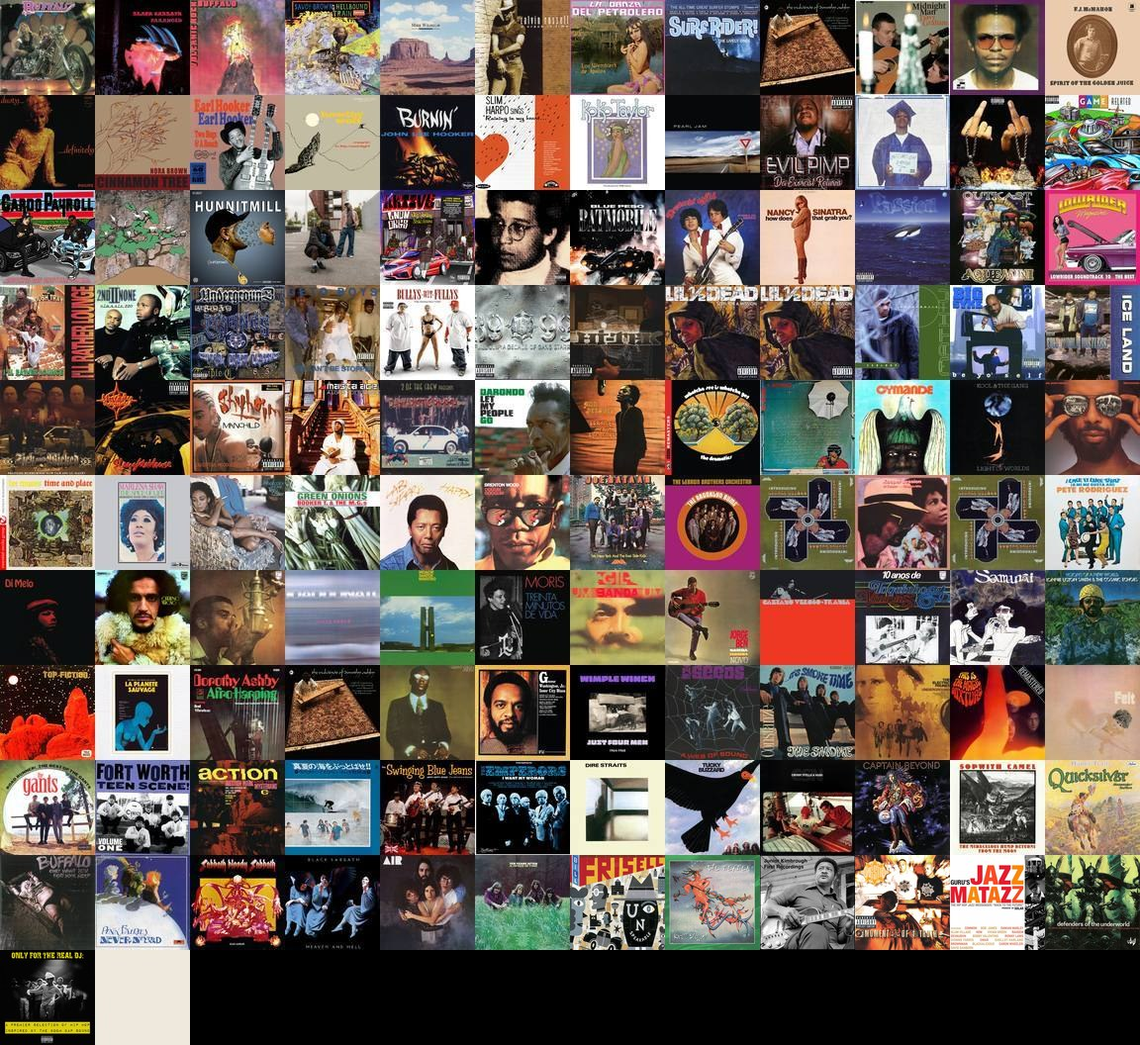
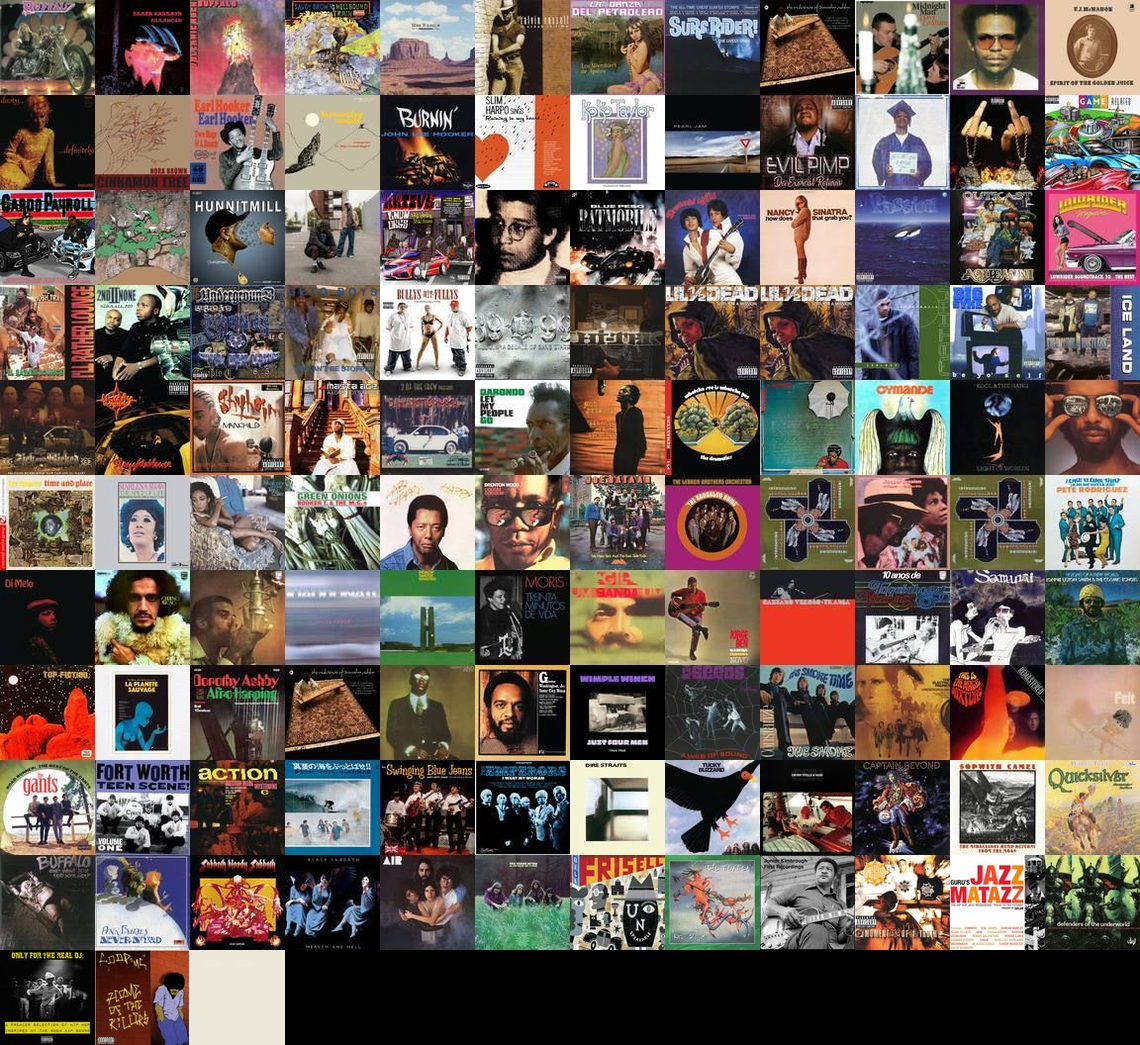
Hublot redessiné (cadres SVG), morceau Home of the Killers (Coop MC) ajouté aux vinyles

Changed region(s): [[0.0625, 0.9062, 0.25, 1.0]]

diff --git a/js/music.js b/js/music.js
@@ -1,3 +1,3 @@
 // Morceaux Spotify du vinyle (liste fournie par Mathieu). Pochettes : planche assets/music/pochettes.jpg, 12 colonnes de 96 px, dans l'ordre.
-export const TRACKS = [{"id":"5WbmkEj3lPvTI1f5CacBkM","t":"Hotel Ladies","a":"Buffalo"},{"id":"6TYQRlRci6AkVrN9a5C7ne","t":"War Pigs - 2009 Remaster","a":"Black Sabbath"},{"id":"5qYtLQTQPhZgWqvRUSsSM4","t":"Intro: Pound Of Flesh","a":"Buffalo"},{"id":"2uiGN4Jwvmw55fLJ93c4Nl","t":"Doin' Fine","a":"Andy Silvester, Kim Simmonds, Savoy Brown"},{"id":"2el9dKL3FVLtDCysHpxJkL","t":"Me and my uncle","a":"Mike Wilhelm"},{"id":"19Ji6Pdoms8fbiujzXoNML","t":"Big brother","a":"Calvin Russell"},{"id":"06mLrrjEz0SlqWrf2VP9rw","t":"Bola Bola En El Tres","a":"Los Wembler's de Iquitos"},{"id":"2ZzQyhYslMeChl0RJdmB80","t":"Caterpillar Crawl","a":"The Lively Ones"},{"id":"2CPFaD7XlLP1ahIhjrvR84","t":"The Moving Finger","a":"Dorothy Ashby"},{"id":"5Uy4hK8Bv1h3Q2OgE4D2xx","t":"No Preacher Blues","a":"Davy Graham"},{"id":"210LU4BbYVSBrjEroOUIsP","t":"Drowning In The Sea Of Love","a":"Ronnie Foster"},{"id":"6xvqkLXJrY9QdZAi1zOQzj","t":"The Road Back Home","a":"F. J. McMahon"},{"id":"3MtP9T0WF4xbIo8vqHYeXM","t":"Spooky","a":"Dusty Springfield"},{"id":"3ScRgckb3ugXlJcJQ9juZ3","t":"Shady Grove - Beautiful Doll","a":"Nora Brown"},{"id":"79lwbvYgFFw3eNbBx4bBRw","t":"Two Bugs and a Roach","a":"Earl Hooker"},{"id":"2HUZVffVPXvqnrml0gXggp","t":"Smokestack Lightnin'","a":"Howlin' Wolf"},{"id":"2Mr1bGI2E10K7Mt1UJZ6Mw","t":"Boom Boom","a":"John Lee Hooker"},{"id":"2DbjWyRtXmbOGyN1C1Kdbp","t":"I'm A King Bee","a":"Slim Harpo"},{"id":"1cXc92MX9kFjMrrDsvdf9w","t":"Wang Dang Doodle","a":"Koko Taylor"},{"id":"0dIipTYASaFwX1QxVrVFV7","t":"Do the Evolution","a":"Pearl Jam"},{"id":"4ePlCt1ufP7B4CAMAwv5Cl","t":"A Damaged Mind","a":"Evil Pimp"},{"id":"7J2j2dUHtV4WOLf8yCzFNX","t":"Nothin But Love","a":"G Perico"},{"id":"4jNOY3vSGI860jqvWOniOr","t":"Its a Blizzard","a":"OTM"},{"id":"1RNojPitlhU5xTQRVcfbvR","t":"Best Behavior","a":"Cardo Got Wings"},{"id":"1TKU1StPW5dPAkP5d5aX7n","t":"Eyez Closed","a":"Payroll Giovanni & Cardo"},{"id":"5BxxrBBszLOYfwcoGF9EFG","t":"Fidget (feat. Go Dreamer)","a":"Left Brain, Go Dreamer"},{"id":"3AjWqcJX4Fa0iGiH5u5ucB","t":"Hunnitmill","a":"Conradfrmdaaves"},{"id":"1zDEeXqtngXbwAVa9rm4Th","t":"Double Lap","a":"Nana, Buddy"},{"id":"6xYI2cuaAZXT6qUwLG5aDH","t":"La Quinta (feat. G Perico)","a":"LNDN DRGS, Jay Worthy, G Perico"},{"id":"1Iss2uVJkG5dgT3gIDvFv0","t":"Veneeda Carter","a":"Joey Fatts, Blxst"},{"id":"5DtsrFB9pkdcwMUMhg0jAJ","t":"Batmobile","a":"Blue Pesos"},{"id":"62wdQ5CInFr7cjISqrr46f","t":"Baby","a":"Donnie & Joe Emerson"},{"id":"4JLcAU2xY90qTkTSNM1lUa","t":"Bang Bang (My Baby Shot Me Down)","a":"Nancy Sinatra"},{"id":"1ZbvEfR0gXKeuDSEtwdrwH","t":"Fillmoe","a":"Andre Nickatina"},{"id":"4GdB5M7GbwLZLouktYocFC","t":"SpottieOttieDopaliscious","a":"Outkast"},{"id":"2ZuxPH17ax5lZ0ROFnrxkv","t":"My 64","a":"Deuce Mob"},{"id":"3TH4GmCJuxdKV9vVvMXlO0","t":"I'll Rather Lounge","a":"Dush Tray"},{"id":"3azIUUjxlMAxJVr9MVNFxb","t":"Pawdy (feat. Playa Hamm)","a":"2nd II None, Playa Hamm"},{"id":"2mKAPrXQ9PQtmw8N9SVTTt","t":"California Soldier","a":"Triple C, Central Coast Clique"},{"id":"4j3sD1EcYquM2ltqNH19ec","t":"Mind Playing Tricks on Me","a":"Geto Boys"},{"id":"0jwZpLiKzk689cJ7yyIoAe","t":"Orange Juice & A Blunt","a":"Bullys Wit Fullys: Guce & Messy Marv"},{"id":"30oTS7bm0aH3p7lqjEIu8q","t":"Full Clip","a":"Gang Starr"},{"id":"6hO3OQ7DDZtjYnVh4EaM3B","t":"The Sun God","a":"Hi-Tek"},{"id":"3HqeaAFjoyBQQ7MX0l8Ee5","t":"Gotta Git Cha","a":"Lil 1/2 Dead"},{"id":"0dG0fNkV86IkUyruf8HyOp","t":"Still Rollin'","a":"Lil 1/2 Dead"},{"id":"1DeT9bwgxISUvbjkmPZyv2","t":"Learn to Earn","a":"Mathematik"},{"id":"3FNGGD6oiTuoVToSx4pUqS","t":"Good Timez","a":"Big Syke"},{"id":"3wiI75YYjGyJlGATODN62Z","t":"Straight Doin' It","a":"Cold World Hustlers"},{"id":"1hp9Ykrw6cCkbL3T6Xlpnt","t":"Shady Lady - Feat. Chino Grande & Big Dave","a":"Sickworld Entertainment"},{"id":"4Jdk8i1Chv4AmwOAkhdXn9","t":"The Big East","a":"Masta Ace Incorporated"},{"id":"4GXV4ScLZ64QcAE03csXUF","t":"Manchild","a":"Tekitha, Shyheim"},{"id":"1sz7jKNRQQVwGp5xKxuixo","t":"Soda & Soap (Featuring Jean Grae)","a":"Masta Ace, Jean Grae"},{"id":"5coE05sP1xaadFJPtQ5zae","t":"Stank Tramps","a":"2 Of The Crew"},{"id":"0i1aUfVUCscAH6IdIa4kjn","t":"My Momma and My Poppa","a":"Darondo"},{"id":"1P1UUI1h9ztiVgDZq1aEtt","t":"99 Pounds","a":"Ann Peebles"},{"id":"70eine3FCFbBVmX3HZhto4","t":"Whatcha See Is Whatcha Get - Stax Remasters","a":"The Dramatics"},{"id":"0RTPZ8Yd44dsoR3uSkK9GT","t":"Ruby Lee","a":"Bill Withers"},{"id":"4TbIOAb7FfbhHi2glq0EwA","t":"Dove","a":"Cymande"},{"id":"2uMqG8w8oi09fB2YA2QLOm","t":"Summer Madness","a":"Kool & The Gang"},{"id":"0MCEM7WuIw4tS9ih4HGE1S","t":"Gun","a":"Gil Scott-Heron"},{"id":"6NrwaVjdLbYsU9Omdbzgtp","t":"Time and Place","a":"Lee Moses"},{"id":"4kfQerxbqsZgi4uWreRjZS","t":"Woman Of The Ghetto","a":"Marlena Shaw"},{"id":"3teQ8pkzhuw4JILPFUADIu","t":"You Goin' Miss Your Candyman","a":"Terry Callier"},{"id":"4fQMGlCawbTkH9yPPZ49kP","t":"Green Onions","a":"Booker T. & the M.G.'s"},{"id":"7rzCydzyXY6gtjFHVCy4SV","t":"Doctor Doctor","a":"Labi Siffre"},{"id":"4WiGGTl7Kt5vnjQHqwLJy1","t":"Oogum Boogum Song","a":"Brenton Wood"},{"id":"6nc5TOvx3UMN4FzA9GUefp","t":"Eres Tu Cosa","a":"Joe Bataan"},{"id":"0yfaraByNSy8oZZVw2gBMB","t":"The Village Chant","a":"The Lebron Brothers Orchestra"},{"id":"0fkWQUZ8Rhh99dNDAIT5Q1","t":"Marilu","a":"George Guzman"},{"id":"7lSYRZnM7fULyp1eNezYC8","t":"Bury My Body","a":"Al Kooper, Shuggie Otis"},{"id":"6oeePYqA5ZjAYi6NUwQpV6","t":"French Boogaloo","a":"George Guzman"},{"id":"6Wy3X4jSszfisnRscJCHdq","t":"I Like It Like That","a":"Pete Rodriguez"},{"id":"1FlKf8UuvOiquytGGwFcyG","t":"Conformopolis","a":"Di Melo"},{"id":"4sKmFSX4iFpvWHXMK1bWlh","t":"A Little More Blue","a":"Caetano Veloso"},{"id":"2OmW34Xkvsy1VCOZ4OZhKv","t":"O Telefone Tocou Novamente","a":"Jorge Ben Jor, Trio Mocoto"},{"id":"3h2uH2Cd2R3uvgXqA0xV9U","t":"Tudo Tem","a":"João Donato"},{"id":"5NCiqRmoHFNSTeEt1SIxKX","t":"April Child","a":"Moacir Santos"},{"id":"5zR2HBjuNk68vpMDUutZ7r","t":"De Nada Sirve","a":"Moris"},{"id":"4P4EomSWKSH1A4RhiSP1iZ","t":"Ê menina - Primeira versão","a":"Gilberto Gil"},{"id":"3RbaFpFrnhkZCIbqyPELna","t":"A Tamba","a":"Jorge Ben Jor"},{"id":"6QWeTNqA0V8ChgMWdbF2vl","t":"Neolithic Man","a":"Caetano Veloso"},{"id":"5BIsNWsHDfCeU8dYexiCsQ","t":"A Tonga Da Mironga Do Kabuletê","a":"Toquinho, Vinícius de Moraes"},{"id":"7gByrcDXxLNgNhISVoSDWc","t":"More Rain","a":"Samurai"},{"id":"7o5jLtd1oTSxtPPeRchT2j","t":"Summer Nights","a":"Lonnie Liston Smith, The Cosmic Echoes"},{"id":"5k5TLNwqEZo8ZberjWZ5TL","t":"Deer Forest","a":"Pierre Dutour"},{"id":"04uauFxLrz9VTsqQpsGKMa","t":"Le bracelet","a":"Alain Goraguer"},{"id":"5QduYE98H3GM1KWCVyxxqz","t":"Games","a":"Dorothy Ashby"},{"id":"7DhirV3YLZWSWyprVQBrfX","t":"Joyful Grass And Grape","a":"Dorothy Ashby"},{"id":"0EdYLCHThvtSmze7iEqlEN","t":"Maybe Tomorrow","a":"Grant Green"},{"id":"3EA7UCERsrayjxwOurZh0H","t":"Inner City Blues (Make Me Wanna Holler)","a":"Grover Washington, Jr."},{"id":"0QrIXAefrjaR1coIvv35y1","t":"Atmospheres - Radio Session 1967","a":"The Wimple Winch"},{"id":"4psIA82DXx6LIWGizkrTPm","t":"Up in Her Room - Stereo","a":"The Seeds"},{"id":"730nZg9zYfDzuqXkxR25NZ","t":"High In A Room","a":"The Smoke"},{"id":"5Em2AxqmENAdmvWlZMHdTp","t":"The Great Banana Hoax","a":"The Electric Prunes"},{"id":"6NShwMc7Jc1b5HIWa1YmpK","t":"Urge to Leave","a":"Magic Mixture"},{"id":"4hreuoKJi3sBdtQD3gfzh5","t":"Destination","a":"Felt, Myke Jackson"},{"id":"6O413yrTmViauDs1juWj8V","t":"(You Can't Blow) Smoke Rings","a":"The Gants"},{"id":"0rxaOwS1sZ4iM13u2Sax7C","t":"Night Of The Sadist","a":"Larry & The Blue Notes"},{"id":"5BExZ33DWn0PjWq5RYTupH","t":"Got To","a":"? & The Mysterians"},{"id":"5ROhWr0MawPKhwzhNcnm65","t":"青い渚をぶっとばせ","a":"Takeshi Terauchi, 寺内タケシ&ブルージーンズ"},{"id":"16gGppv6vLbITNx1Mi7dzd","t":"You're No Good","a":"The Swinging Blue Jeans"},{"id":"5sAtScOFqvZE9lgZCCnR3v","t":"I Want My Woman","a":"The Emperors"},{"id":"2miIOgni3EEut8pvYcxeYn","t":"Six Blade Knife","a":"Dire Straits"},{"id":"74uqYDRpvAjIWKqZWNIeDH","t":"Whisky Eyes","a":"Tucky Buzzard"},{"id":"5P6R9ZII7Q9Hi2PEXrErxe","t":"Run from Tears","a":"Crosby, Stills & Nash"},{"id":"1T6HvG1MGRlNKnV3g1iMEC","t":"Armworth","a":"Captain Beyond"},{"id":"0gbqyGMjt3DrZuiWLrvVaj","t":"Sneaky Smith","a":"Sopwith Camel"},{"id":"6nvqMow6jtm6nSlZw3kEQG","t":"Which Do You Love","a":"Quicksilver Messenger Service"},{"id":"2kEYmPUBUPvS6PvjFLItwR","t":"Kings Cross Ladies","a":"Buffalo"},{"id":"2W44h8OzlFXjpXUoLLyuyR","t":"Uncle Harry's Last Freak-Out","a":"The Pink Fairies"},{"id":"387JMg7bz2JPHhLqXC1RBy","t":"Killing Yourself to Live - 2013 Remaster","a":"Black Sabbath"},{"id":"5qxN63QA4Hk1zgdLCsZFE2","t":"Heaven and Hell","a":"Black Sabbath"},{"id":"357S3x6PWOPs7zeKX640MO","t":"Mr. Man","a":"Air"},{"id":"5buHTniXr2fPv9iDlBgnub","t":"I've Been There Too - 2004 Remaster","a":"Ten Years After"},{"id":"6RLIzLk4dl8uAYCjUZLlor","t":"1968","a":"Bill Frisell"},{"id":"54xXWo2WfWUZgLiZGOBeU3","t":"The Goodbye","a":"The Mermen"},{"id":"7HQhevzEGXpA3a7kV2o724","t":"Feels so Good #1","a":"Junior Kimbrough"},{"id":"0drHbXjNetXRrdcm81pxfw","t":"JFK 2 LAX","a":"Gang Starr"},{"id":"2zPLGStHETdkChk5UCvs7W","t":"State of Clarity","a":"Guru, Common, Bob James"},{"id":"0fZPrVMa6UJ785NKmu6gVm","t":"Pow Wow","a":"The Psycho Realm"},{"id":"4lD2Tahm75anCbAilasvhu","t":"Let It Fall","a":"Lin Que"}];
-export const COVER = { cols: 12, rows: 11, file: 'assets/music/pochettes.jpg?v=m121' };
+export const TRACKS = [{"id":"5WbmkEj3lPvTI1f5CacBkM","t":"Hotel Ladies","a":"Buffalo"},{"id":"6TYQRlRci6AkVrN9a5C7ne","t":"War Pigs - 2009 Remaster","a":"Black Sabbath"},{"id":"5qYtLQTQPhZgWqvRUSsSM4","t":"Intro: Pound Of Flesh","a":"Buffalo"},{"id":"2uiGN4Jwvmw55fLJ93c4Nl","t":"Doin' Fine","a":"Andy Silvester, Kim Simmonds, Savoy Brown"},{"id":"2el9dKL3FVLtDCysHpxJkL","t":"Me and my uncle","a":"Mike Wilhelm"},{"id":"19Ji6Pdoms8fbiujzXoNML","t":"Big brother","a":"Calvin Russell"},{"id":"06mLrrjEz0SlqWrf2VP9rw","t":"Bola Bola En El Tres","a":"Los Wembler's de Iquitos"},{"id":"2ZzQyhYslMeChl0RJdmB80","t":"Caterpillar Crawl","a":"The Lively Ones"},{"id":"2CPFaD7XlLP1ahIhjrvR84","t":"The Moving Finger","a":"Dorothy Ashby"},{"id":"5Uy4hK8Bv1h3Q2OgE4D2xx","t":"No Preacher Blues","a":"Davy Graham"},{"id":"210LU4BbYVSBrjEroOUIsP","t":"Drowning In The Sea Of Love","a":"Ronnie Foster"},{"id":"6xvqkLXJrY9QdZAi1zOQzj","t":"The Road Back Home","a":"F. J. McMahon"},{"id":"3MtP9T0WF4xbIo8vqHYeXM","t":"Spooky","a":"Dusty Springfield"},{"id":"3ScRgckb3ugXlJcJQ9juZ3","t":"Shady Grove - Beautiful Doll","a":"Nora Brown"},{"id":"79lwbvYgFFw3eNbBx4bBRw","t":"Two Bugs and a Roach","a":"Earl Hooker"},{"id":"2HUZVffVPXvqnrml0gXggp","t":"Smokestack Lightnin'","a":"Howlin' Wolf"},{"id":"2Mr1bGI2E10K7Mt1UJZ6Mw","t":"Boom Boom","a":"John Lee Hooker"},{"id":"2DbjWyRtXmbOGyN1C1Kdbp","t":"I'm A King Bee","a":"Slim Harpo"},{"id":"1cXc92MX9kFjMrrDsvdf9w","t":"Wang Dang Doodle","a":"Koko Taylor"},{"id":"0dIipTYASaFwX1QxVrVFV7","t":"Do the Evolution","a":"Pearl Jam"},{"id":"4ePlCt1ufP7B4CAMAwv5Cl","t":"A Damaged Mind","a":"Evil Pimp"},{"id":"7J2j2dUHtV4WOLf8yCzFNX","t":"Nothin But Love","a":"G Perico"},{"id":"4jNOY3vSGI860jqvWOniOr","t":"Its a Blizzard","a":"OTM"},{"id":"1RNojPitlhU5xTQRVcfbvR","t":"Best Behavior","a":"Cardo Got Wings"},{"id":"1TKU1StPW5dPAkP5d5aX7n","t":"Eyez Closed","a":"Payroll Giovanni & Cardo"},{"id":"5BxxrBBszLOYfwcoGF9EFG","t":"Fidget (feat. Go Dreamer)","a":"Left Brain, Go Dreamer"},{"id":"3AjWqcJX4Fa0iGiH5u5ucB","t":"Hunnitmill","a":"Conradfrmdaaves"},{"id":"1zDEeXqtngXbwAVa9rm4Th","t":"Double Lap","a":"Nana, Buddy"},{"id":"6xYI2cuaAZXT6qUwLG5aDH","t":"La Quinta (feat. G Perico)","a":"LNDN DRGS, Jay Worthy, G Perico"},{"id":"1Iss2uVJkG5dgT3gIDvFv0","t":"Veneeda Carter","a":"Joey Fatts, Blxst"},{"id":"5DtsrFB9pkdcwMUMhg0jAJ","t":"Batmobile","a":"Blue Pesos"},{"id":"62wdQ5CInFr7cjISqrr46f","t":"Baby","a":"Donnie & Joe Emerson"},{"id":"4JLcAU2xY90qTkTSNM1lUa","t":"Bang Bang (My Baby Shot Me Down)","a":"Nancy Sinatra"},{"id":"1ZbvEfR0gXKeuDSEtwdrwH","t":"Fillmoe","a":"Andre Nickatina"},{"id":"4GdB5M7GbwLZLouktYocFC","t":"SpottieOttieDopaliscious","a":"Outkast"},{"id":"2ZuxPH17ax5lZ0ROFnrxkv","t":"My 64","a":"Deuce Mob"},{"id":"3TH4GmCJuxdKV9vVvMXlO0","t":"I'll Rather Lounge","a":"Dush Tray"},{"id":"3azIUUjxlMAxJVr9MVNFxb","t":"Pawdy (feat. Playa Hamm)","a":"2nd II None, Playa Hamm"},{"id":"2mKAPrXQ9PQtmw8N9SVTTt","t":"California Soldier","a":"Triple C, Central Coast Clique"},{"id":"4j3sD1EcYquM2ltqNH19ec","t":"Mind Playing Tricks on Me","a":"Geto Boys"},{"id":"0jwZpLiKzk689cJ7yyIoAe","t":"Orange Juice & A Blunt","a":"Bullys Wit Fullys: Guce & Messy Marv"},{"id":"30oTS7bm0aH3p7lqjEIu8q","t":"Full Clip","a":"Gang Starr"},{"id":"6hO3OQ7DDZtjYnVh4EaM3B","t":"The Sun God","a":"Hi-Tek"},{"id":"3HqeaAFjoyBQQ7MX0l8Ee5","t":"Gotta Git Cha","a":"Lil 1/2 Dead"},{"id":"0dG0fNkV86IkUyruf8HyOp","t":"Still Rollin'","a":"Lil 1/2 Dead"},{"id":"1DeT9bwgxISUvbjkmPZyv2","t":"Learn to Earn","a":"Mathematik"},{"id":"3FNGGD6oiTuoVToSx4pUqS","t":"Good Timez","a":"Big Syke"},{"id":"3wiI75YYjGyJlGATODN62Z","t":"Straight Doin' It","a":"Cold World Hustlers"},{"id":"1hp9Ykrw6cCkbL3T6Xlpnt","t":"Shady Lady - Feat. Chino Grande & Big Dave","a":"Sickworld Entertainment"},{"id":"4Jdk8i1Chv4AmwOAkhdXn9","t":"The Big East","a":"Masta Ace Incorporated"},{"id":"4GXV4ScLZ64QcAE03csXUF","t":"Manchild","a":"Tekitha, Shyheim"},{"id":"1sz7jKNRQQVwGp5xKxuixo","t":"Soda & Soap (Featuring Jean Grae)","a":"Masta Ace, Jean Grae"},{"id":"5coE05sP1xaadFJPtQ5zae","t":"Stank Tramps","a":"2 Of The Crew"},{"id":"0i1aUfVUCscAH6IdIa4kjn","t":"My Momma and My Poppa","a":"Darondo"},{"id":"1P1UUI1h9ztiVgDZq1aEtt","t":"99 Pounds","a":"Ann Peebles"},{"id":"70eine3FCFbBVmX3HZhto4","t":"Whatcha See Is Whatcha Get - Stax Remasters","a":"The Dramatics"},{"id":"0RTPZ8Yd44dsoR3uSkK9GT","t":"Ruby Lee","a":"Bill Withers"},{"id":"4TbIOAb7FfbhHi2glq0EwA","t":"Dove","a":"Cymande"},{"id":"2uMqG8w8oi09fB2YA2QLOm","t":"Summer Madness","a":"Kool & The Gang"},{"id":"0MCEM7WuIw4tS9ih4HGE1S","t":"Gun","a":"Gil Scott-Heron"},{"id":"6NrwaVjdLbYsU9Omdbzgtp","t":"Time and Place","a":"Lee Moses"},{"id":"4kfQerxbqsZgi4uWreRjZS","t":"Woman Of The Ghetto","a":"Marlena Shaw"},{"id":"3teQ8pkzhuw4JILPFUADIu","t":"You Goin' Miss Your Candyman","a":"Terry Callier"},{"id":"4fQMGlCawbTkH9yPPZ49kP","t":"Green Onions","a":"Booker T. & the M.G.'s"},{"id":"7rzCydzyXY6gtjFHVCy4SV","t":"Doctor Doctor","a":"Labi Siffre"},{"id":"4WiGGTl7Kt5vnjQHqwLJy1","t":"Oogum Boogum Song","a":"Brenton Wood"},{"id":"6nc5TOvx3UMN4FzA9GUefp","t":"Eres Tu Cosa","a":"Joe Bataan"},{"id":"0yfaraByNSy8oZZVw2gBMB","t":"The Village Chant","a":"The Lebron Brothers Orchestra"},{"id":"0fkWQUZ8Rhh99dNDAIT5Q1","t":"Marilu","a":"George Guzman"},{"id":"7lSYRZnM7fULyp1eNezYC8","t":"Bury My Body","a":"Al Kooper, Shuggie Otis"},{"id":"6oeePYqA5ZjAYi6NUwQpV6","t":"French Boogaloo","a":"George Guzman"},{"id":"6Wy3X4jSszfisnRscJCHdq","t":"I Like It Like That","a":"Pete Rodriguez"},{"id":"1FlKf8UuvOiquytGGwFcyG","t":"Conformopolis","a":"Di Melo"},{"id":"4sKmFSX4iFpvWHXMK1bWlh","t":"A Little More Blue","a":"Caetano Veloso"},{"id":"2OmW34Xkvsy1VCOZ4OZhKv","t":"O Telefone Tocou Novamente","a":"Jorge Ben Jor, Trio Mocoto"},{"id":"3h2uH2Cd2R3uvgXqA0xV9U","t":"Tudo Tem","a":"João Donato"},{"id":"5NCiqRmoHFNSTeEt1SIxKX","t":"April Child","a":"Moacir Santos"},{"id":"5zR2HBjuNk68vpMDUutZ7r","t":"De Nada Sirve","a":"Moris"},{"id":"4P4EomSWKSH1A4RhiSP1iZ","t":"Ê menina - Primeira versão","a":"Gilberto Gil"},{"id":"3RbaFpFrnhkZCIbqyPELna","t":"A Tamba","a":"Jorge Ben Jor"},{"id":"6QWeTNqA0V8ChgMWdbF2vl","t":"Neolithic Man","a":"Caetano Veloso"},{"id":"5BIsNWsHDfCeU8dYexiCsQ","t":"A Tonga Da Mironga Do Kabuletê","a":"Toquinho, Vinícius de Moraes"},{"id":"7gByrcDXxLNgNhISVoSDWc","t":"More Rain","a":"Samurai"},{"id":"7o5jLtd1oTSxtPPeRchT2j","t":"Summer Nights","a":"Lonnie Liston Smith, The Cosmic Echoes"},{"id":"5k5TLNwqEZo8ZberjWZ5TL","t":"Deer Forest","a":"Pierre Dutour"},{"id":"04uauFxLrz9VTsqQpsGKMa","t":"Le bracelet","a":"Alain Goraguer"},{"id":"5QduYE98H3GM1KWCVyxxqz","t":"Games","a":"Dorothy Ashby"},{"id":"7DhirV3YLZWSWyprVQBrfX","t":"Joyful Grass And Grape","a":"Dorothy Ashby"},{"id":"0EdYLCHThvtSmze7iEqlEN","t":"Maybe Tomorrow","a":"Grant Green"},{"id":"3EA7UCERsrayjxwOurZh0H","t":"Inner City Blues (Make Me Wanna Holler)","a":"Grover Washington, Jr."},{"id":"0QrIXAefrjaR1coIvv35y1","t":"Atmospheres - Radio Session 1967","a":"The Wimple Winch"},{"id":"4psIA82DXx6LIWGizkrTPm","t":"Up in Her Room - Stereo","a":"The Seeds"},{"id":"730nZg9zYfDzuqXkxR25NZ","t":"High In A Room","a":"The Smoke"},{"id":"5Em2AxqmENAdmvWlZMHdTp","t":"The Great Banana Hoax","a":"The Electric Prunes"},{"id":"6NShwMc7Jc1b5HIWa1YmpK","t":"Urge to Leave","a":"Magic Mixture"},{"id":"4hreuoKJi3sBdtQD3gfzh5","t":"Destination","a":"Felt, Myke Jackson"},{"id":"6O413yrTmViauDs1juWj8V","t":"(You Can't Blow) Smoke Rings","a":"The Gants"},{"id":"0rxaOwS1sZ4iM13u2Sax7C","t":"Night Of The Sadist","a":"Larry & The Blue Notes"},{"id":"5BExZ33DWn0PjWq5RYTupH","t":"Got To","a":"? & The Mysterians"},{"id":"5ROhWr0MawPKhwzhNcnm65","t":"青い渚をぶっとばせ","a":"Takeshi Terauchi, 寺内タケシ&ブルージーンズ"},{"id":"16gGppv6vLbITNx1Mi7dzd","t":"You're No Good","a":"The Swinging Blue Jeans"},{"id":"5sAtScOFqvZE9lgZCCnR3v","t":"I Want My Woman","a":"The Emperors"},{"id":"2miIOgni3EEut8pvYcxeYn","t":"Six Blade Knife","a":"Dire Straits"},{"id":"74uqYDRpvAjIWKqZWNIeDH","t":"Whisky Eyes","a":"Tucky Buzzard"},{"id":"5P6R9ZII7Q9Hi2PEXrErxe","t":"Run from Tears","a":"Crosby, Stills & Nash"},{"id":"1T6HvG1MGRlNKnV3g1iMEC","t":"Armworth","a":"Captain Beyond"},{"id":"0gbqyGMjt3DrZuiWLrvVaj","t":"Sneaky Smith","a":"Sopwith Camel"},{"id":"6nvqMow6jtm6nSlZw3kEQG","t":"Which Do You Love","a":"Quicksilver Messenger Service"},{"id":"2kEYmPUBUPvS6PvjFLItwR","t":"Kings Cross Ladies","a":"Buffalo"},{"id":"2W44h8OzlFXjpXUoLLyuyR","t":"Uncle Harry's Last Freak-Out","a":"The Pink Fairies"},{"id":"387JMg7bz2JPHhLqXC1RBy","t":"Killing Yourself to Live - 2013 Remaster","a":"Black Sabbath"},{"id":"5qxN63QA4Hk1zgdLCsZFE2","t":"Heaven and Hell","a":"Black Sabbath"},{"id":"357S3x6PWOPs7zeKX640MO","t":"Mr. Man","a":"Air"},{"id":"5buHTniXr2fPv9iDlBgnub","t":"I've Been There Too - 2004 Remaster","a":"Ten Years After"},{"id":"6RLIzLk4dl8uAYCjUZLlor","t":"1968","a":"Bill Frisell"},{"id":"54xXWo2WfWUZgLiZGOBeU3","t":"The Goodbye","a":"The Mermen"},{"id":"7HQhevzEGXpA3a7kV2o724","t":"Feels so Good #1","a":"Junior Kimbrough"},{"id":"0drHbXjNetXRrdcm81pxfw","t":"JFK 2 LAX","a":"Gang Starr"},{"id":"2zPLGStHETdkChk5UCvs7W","t":"State of Clarity","a":"Guru, Common, Bob James"},{"id":"0fZPrVMa6UJ785NKmu6gVm","t":"Pow Wow","a":"The Psycho Realm"},{"id":"4lD2Tahm75anCbAilasvhu","t":"Let It Fall","a":"Lin Que"},{"id":"6ZzgDrIUVSMpsTVWRqtrBX","t":"Home of the Killers","a":"Coop MC"}];
+export const COVER = { cols: 12, rows: 11, file: 'assets/music/pochettes.jpg?v=m122' };

diff --git a/experiences.html b/experiences.html
@@ -8,8 +8,8 @@
 <meta name="theme-color" content="#05080d">
 <link rel="icon" href="favicon.svg" type="image/svg+xml">
 <link rel="stylesheet" href="cursor.css?v=5">
-<link rel="stylesheet" href="refonte/rf.css?v=mvh3c3rb">
-<script type="module" src="refonte/experiences.js?v=mvh3c3rb"></script>
+<link rel="stylesheet" href="refonte/rf.css?v=mvh3ib1x">
+<script type="module" src="refonte/experiences.js?v=mvh3ib1x"></script>
 </head>
 <body class="rf-exp-page">
 <nav class="rf-bnav" aria-label="Navigation">
@@ -51,9 +51,9 @@
         <svg class="rf-win-layer rf-win-trees" viewBox="0 0 1200 240" preserveAspectRatio="none"><defs><g id="rfw-t"><g filter="url(#rfw-blur)" fill="#f0b9cc" opacity=".92"><ellipse cx="90" cy="150" rx="70" ry="44"/><ellipse cx="40" cy="176" rx="44" ry="32"/><ellipse cx="140" cy="172" rx="52" ry="30"/></g><g filter="url(#rfw-blur)" fill="#f7d8e2" opacity=".95"><ellipse cx="410" cy="120" rx="80" ry="40"/><ellipse cx="450" cy="150" rx="54" ry="30"/></g><g filter="url(#rfw-blur)" fill="#e79dba" opacity=".9"><ellipse cx="820" cy="170" rx="90" ry="46"/><ellipse cx="760" cy="196" rx="46" ry="26"/></g></g></defs><use href="#rfw-t"/><use href="#rfw-t" x="600"/></svg>
         <svg class="rf-win-layer rf-win-grass" viewBox="0 0 1200 240" preserveAspectRatio="none"><defs><path id="rfw-g" fill="#3e7a2c" d="M0 232 Q60 222 130 231 T260 228 T400 233 T600 229 V240 H0Z"/></defs><use href="#rfw-g"/><use href="#rfw-g" x="600"/></svg>
       </div>
-      <div class="rf-win-inner" aria-hidden="true"></div>
+      <div class="rf-win-inner" aria-hidden="true"><svg viewBox="0 0 300 240" preserveAspectRatio="none"><defs><linearGradient id="rfw-ring" x1="0" y1="0" x2="0" y2="1"><stop offset="0" stop-color="#e4e6ea"/><stop offset=".5" stop-color="#a3a8b1"/><stop offset="1" stop-color="#d3d6db"/></linearGradient></defs><rect x="22" y="22" width="256" height="188" rx="34" fill="none" stroke="url(#rfw-ring)" stroke-width="7"/><rect x="25.500" y="25.500" width="249" height="181" rx="31" fill="none" stroke="#6f747e" stroke-width="1" opacity=".55"/></svg></div>
       <div class="rf-win-glass"><div class="rf-win-shutter" id="rf-shutter"><div class="rf-win-slats"></div><div class="rf-win-recess"></div><div class="rf-win-grip" id="rf-grip" role="slider" tabindex="0" aria-label="Poignée du store" aria-orientation="vertical" aria-valuemin="0" aria-valuemax="100" aria-valuenow="0"></div></div></div>
-      <div class="rf-win-outer" aria-hidden="true"></div>
+      <div class="rf-win-outer" aria-hidden="true"><svg viewBox="0 0 300 240" preserveAspectRatio="none"><defs><linearGradient id="rfw-fr" x1="0" y1="0" x2="0" y2="1"><stop offset="0" stop-color="#f3f4f6"/><stop offset=".55" stop-color="#dcdee3"/><stop offset="1" stop-color="#c4c7ce"/></linearGradient></defs><path fill-rule="evenodd" fill="url(#rfw-fr)" d="M46 0H254a46 46 0 0 1 46 46V194a46 46 0 0 1-46 46H46A46 46 0 0 1 0 194V46A46 46 0 0 1 46 0ZM54 15H246a38 38 0 0 1 38 38V177a38 38 0 0 1-38 38H54a38 38 0 0 1-38-38V53A38 38 0 0 1 54 15Z"/><rect x="2" y="2" width="296" height="236" rx="44" fill="none" stroke="#fff" stroke-width="2" opacity=".85"/><rect x="16" y="15" width="268" height="200" rx="38" fill="none" stroke="#a9adb6" stroke-width="2"/><path d="M84 219Q150 231 216 219L208 214H92Z" fill="#c3c6cd" stroke="#a1a5ae" stroke-width="1"/></svg></div>
     </div>
     <div class="rf-exp-title">
       <h1>Mon parcours jusqu’à présent</h1>
@@ -87,7 +87,7 @@
     <div class="rf-foot-card">
       <p class="rf-fh">Métadonnées</p>
       <dl class="rf-fgrid">
-        <div><dt>Version</dt><dd data-t="mvh3c3r">mvh3c3r</dd></div>
+        <div><dt>Version</dt><dd data-t="mvh3ib1">mvh3ib1</dd></div>
         <div><dt>Navigateur</dt><dd id="rf-f-browser">…</dd></div>
         <div><dt>Heure actuelle</dt><dd id="rf-f-time">…</dd></div>
         <div><dt>Dimensions</dt><dd id="rf-f-dim">…</dd></div>

diff --git a/refonte/rf.css b/refonte/rf.css
@@ -611,3 +611,14 @@ html body.rf-exp-page{background:#05080d;color:#e0ebfd;font-family:var(--rf-sans
 .rf-pn-prev:hover .rf-pn-arr{transform:translateX(-5px);opacity:1;color:#e0ebfd}.rf-pn-next:hover .rf-pn-arr{transform:translateX(5px);opacity:1;color:#e0ebfd}
 @media (max-width:620px){.rf-post-pn a.rf-pn-next{flex-direction:row;text-align:left;padding:12px 16px 12px 12px}.rf-pn-next .rf-pn-arr{order:3}}
 @media (prefers-reduced-motion:reduce){.rf-post-pn a,.rf-pn-vis,.rf-pn-vis img,.rf-pn-arr,.rf-post-pn a::after{transition:none}}
+/* hublot : cadres dessinés en SVG (mêmes proportions que l'original), ouverture et volet arrondis comme lui */
+.rf-win-inner,.rf-win-outer{border:0;box-shadow:none;background:none;filter:none;border-radius:0}
+.rf-win-outer{filter:drop-shadow(0 18px 24px rgb(0 8 60 / .45))}
+.rf-win-inner svg,.rf-win-outer svg{display:block;width:100%;height:100%}
+.rf-win-inner{inset:0}
+.rf-win-view{inset:5%;border-radius:13%/16%}
+.rf-win-glass{inset:6.4% 5.3%;border-radius:12%/15%}
+.rf-win-slats{border-radius:12%/15%;background:linear-gradient(180deg,#dcdee2 0,#cdd0d5 50%,#bcbfc6 100%);box-shadow:inset 0 0 0 2px rgb(255 255 255 / .7),inset 0 0 0 3px rgb(150 154 162 / .35),inset 0 -14px 22px rgb(0 0 0 / .07)}
+.rf-win-recess{left:21%;width:58%;bottom:3.6%;height:13%;border-radius:999px;background:linear-gradient(#aeb2ba,#d3d6db);box-shadow:inset 0 3px 6px rgb(0 0 0 / .28),0 1px 0 rgb(255 255 255 / .7)}
+.rf-win-grip{left:31%;width:38%;bottom:6.2%;height:6.4%;border-radius:999px;background:linear-gradient(180deg,#f2f3f6 0,#b3b7bf 45%,#7e838d 100%);box-shadow:0 2px 3px rgb(0 0 0 / .3),inset 0 1px 0 #fff}
+.rf-win-outer::after{display:none}

diff --git a/index.html b/index.html
@@ -13,9 +13,9 @@
 <link rel="preconnect" href="https://fonts.googleapis.com"><link rel="preconnect" href="https://fonts.gstatic.com" crossorigin>
 <link href="https://fonts.googleapis.com/css2?family=Instrument+Serif:ital@0;1&display=swap" rel="stylesheet">
 <link rel="stylesheet" href="project-dioramas.css?v=cv-light-v6">
-<link rel="stylesheet" href="refonte/rf.css?v=mvh3c3rb">
+<link rel="stylesheet" href="refonte/rf.css?v=mvh3ib1x">
 <script type="importmap">{"imports":{"three":"./vendor/three.module.min.js","three/addons/":"./vendor/"}}</script>
-<script type="module" src="refonte/main.js?v=mvh3c3rb"></script>
+<script type="module" src="refonte/main.js?v=mvh3ib1x"></script>
 </head>
 <body class="page-home rf">
 <nav class="nav" aria-label="Navigation">
@@ -142,7 +142,7 @@
     <div class="rf-foot-card">
       <p class="rf-fh">Métadonnées</p>
       <dl class="rf-fgrid">
-        <div><dt>Version</dt><dd data-t="mvh3c3r">mvh3c3r</dd></div>
+        <div><dt>Version</dt><dd data-t="mvh3ib1">mvh3ib1</dd></div>
         <div><dt>Navigateur</dt><dd id="rf-f-browser">…</dd></div>
         <div><dt>Heure actuelle</dt><dd id="rf-f-time">…</dd></div>
         <div><dt>Dimensions</dt><dd id="rf-f-dim">…</dd></div>

diff --git a/projet-cerfa.html b/projet-cerfa.html
@@ -8,9 +8,9 @@
 <meta name="theme-color" content="#05080d">
 <link rel="icon" href="favicon.svg" type="image/svg+xml">
 <link rel="stylesheet" href="cursor.css?v=5">
-<link rel="stylesheet" href="refonte/rf.css?v=mvh3c3rb">
+<link rel="stylesheet" href="refonte/rf.css?v=mvh3ib1x">
 <script type="importmap">{"imports":{"three":"./vendor/three.module.min.js"}}</script>
-<script type="module" src="refonte/post.js?v=mvh3c3rb"></script>
+<script type="module" src="refonte/post.js?v=mvh3ib1x"></script>
 </head>
 <body class="rf-post-page rf-post--bp">
 <nav class="rf-bnav" aria-label="Navigation">
@@ -46,7 +46,7 @@
     <div class="rf-foot-card">
       <p class="rf-fh">Métadonnées</p>
       <dl class="rf-fgrid">
-        <div><dt>Version</dt><dd data-t="mvh3c3r">mvh3c3r</dd></div>
+        <div><dt>Version</dt><dd data-t="mvh3ib1">mvh3ib1</dd></div>
         <div><dt>Navigateur</dt><dd id="rf-f-browser">…</dd></div>
         <div><dt>Heure actuelle</dt><dd id="rf-f-time">…</dd></div>
         <div><dt>Dimensions</dt><dd id="rf-f-dim">…</dd></div>

diff --git a/projet-finance.html b/projet-finance.html
@@ -8,9 +8,9 @@
 <meta name="theme-color" content="#05080d">
 <link rel="icon" href="favicon.svg" type="image/svg+xml">
 <link rel="stylesheet" href="cursor.css?v=5">
-<link rel="stylesheet" href="refonte/rf.css?v=mvh3c3rb">
+<link rel="stylesheet" href="refonte/rf.css?v=mvh3ib1x">
 <script type="importmap">{"imports":{"three":"./vendor/three.module.min.js"}}</script>
-<script type="module" src="refonte/post.js?v=mvh3c3rb"></script>
+<script type="module" src="refonte/post.js?v=mvh3ib1x"></script>
 </head>
 <body class="rf-post-page rf-post--bp">
 <nav class="rf-bnav" aria-label="Navigation">
@@ -46,7 +46,7 @@
     <div class="rf-foot-card">
       <p class="rf-fh">Métadonnées</p>
       <dl class="rf-fgrid">
-        <div><dt>Version</dt><dd data-t="mvh3c3r">mvh3c3r</dd></div>
+        <div><dt>Version</dt><dd data-t="mvh3ib1">mvh3ib1</dd></div>
         <div><dt>Navigateur</dt><dd id="rf-f-browser">…</dd></div>
         <div><dt>Heure actuelle</dt><dd id="rf-f-time">…</dd></div>
         <div><dt>Dimensions</dt><dd id="rf-f-dim">…</dd></div>

diff --git a/projet-gares.html b/projet-gares.html
@@ -8,9 +8,9 @@
 <meta name="theme-color" content="#05080d">
 <link rel="icon" href="favicon.svg" type="image/svg+xml">
 <link rel="stylesheet" href="cursor.css?v=5">
-<link rel="stylesheet" href="refonte/rf.css?v=mvh3c3rb">
+<link rel="stylesheet" href="refonte/rf.css?v=mvh3ib1x">
 <script type="importmap">{"imports":{"three":"./vendor/three.module.min.js"}}</script>
-<script type="module" src="refonte/post.js?v=mvh3c3rb"></script>
+<script type="module" src="refonte/post.js?v=mvh3ib1x"></script>
 </head>
 <body class="rf-post-page rf-post--bp">
 <nav class="rf-bnav" aria-label="Navigation">
@@ -46,7 +46,7 @@
     <div class="rf-foot-card">
       <p class="rf-fh">Métadonnées</p>
       <dl class="rf-fgrid">
-        <div><dt>Version</dt><dd data-t="mvh3c3r">mvh3c3r</dd></div>
+        <div><dt>Version</dt><dd data-t="mvh3ib1">mvh3ib1</dd></div>
         <div><dt>Navigateur</dt><dd id="rf-f-browser">…</dd></div>
         <div><dt>Heure actuelle</dt><dd id="rf-f-time">…</dd></div>
         <div><dt>Dimensions</dt><dd id="rf-f-dim">…</dd></div>

diff --git a/projet-moteur44.html b/projet-moteur44.html
@@ -8,9 +8,9 @@
 <meta name="theme-color" content="#05080d">
 <link rel="icon" href="favicon.svg" type="image/svg+xml">
 <link rel="stylesheet" href="cursor.css?v=5">
-<link rel="stylesheet" href="refonte/rf.css?v=mvh3c3rb">
+<link rel="stylesheet" href="refonte/rf.css?v=mvh3ib1x">
 <script type="importmap">{"imports":{"three":"./vendor/three.module.min.js"}}</script>
-<script type="module" src="refonte/post.js?v=mvh3c3rb"></script>
+<script type="module" src="refonte/post.js?v=mvh3ib1x"></script>
 </head>
 <body class="rf-post-page rf-post--bp">
 <nav class="rf-bnav" aria-label="Navigation">
@@ -46,7 +46,7 @@
     <div class="rf-foot-card">
       <p class="rf-fh">Métadonnées</p>
       <dl class="rf-fgrid">
-        <div><dt>Version</dt><dd data-t="mvh3c3r">mvh3c3r</dd></div>
+        <div><dt>Version</dt><dd data-t="mvh3ib1">mvh3ib1</dd></div>
         <div><dt>Navigateur</dt><dd id="rf-f-browser">…</dd></div>
         <div><dt>Heure actuelle</dt><dd id="rf-f-time">…</dd></div>
         <div><dt>Dimensions</dt><dd id="rf-f-dim">…</dd></div>

diff --git a/projet-pa.html b/projet-pa.html
@@ -8,9 +8,9 @@
 <meta name="theme-color" content="#05080d">
 <link rel="icon" href="favicon.svg" type="image/svg+xml">
 <link rel="stylesheet" href="cursor.css?v=5">
-<link rel="stylesheet" href="refonte/rf.css?v=mvh3c3rb">
+<link rel="stylesheet" href="refonte/rf.css?v=mvh3ib1x">
 <script type="importmap">{"imports":{"three":"./vendor/three.module.min.js"}}</script>
-<script type="module" src="refonte/post.js?v=mvh3c3rb"></script>
+<script type="module" src="refonte/post.js?v=mvh3ib1x"></script>
 </head>
 <body class="rf-post-page rf-post--bp">
 <nav class="rf-bnav" aria-label="Navigation">
@@ -46,7 +46,7 @@
     <div class="rf-foot-card">
       <p class="rf-fh">Métadonnées</p>
       <dl class="rf-fgrid">
-        <div><dt>Version</dt><dd data-t="mvh3c3r">mvh3c3r</dd></div>
+        <div><dt>Version</dt><dd data-t="mvh3ib1">mvh3ib1</dd></div>
         <div><dt>Navigateur</dt><dd id="rf-f-browser">…</dd></div>
         <div><dt>Heure actuelle</dt><dd id="rf-f-time">…</dd></div>
         <div><dt>Dimensions</dt><dd id="rf-f-dim">…</dd></div>

diff --git a/projet-powerbi.html b/projet-powerbi.html
@@ -8,9 +8,9 @@
 <meta name="theme-color" content="#05080d">
 <link rel="icon" href="favicon.svg" type="image/svg+xml">
 <link rel="stylesheet" href="cursor.css?v=5">
-<link rel="stylesheet" href="refonte/rf.css?v=mvh3c3rb">
+<link rel="stylesheet" href="refonte/rf.css?v=mvh3ib1x">
 <script type="importmap">{"imports":{"three":"./vendor/three.module.min.js"}}</script>
-<script type="module" src="refonte/post.js?v=mvh3c3rb"></script>
+<script type="module" src="refonte/post.js?v=mvh3ib1x"></script>
 </head>
 <body class="rf-post-page rf-post--bp">
 <nav class="rf-bnav" aria-label="Navigation">
@@ -46,7 +46,7 @@
     <div class="rf-foot-card">
       <p class="rf-fh">Métadonnées</p>
       <dl class="rf-fgrid">
-        <div><dt>Version</dt><dd data-t="mvh3c3r">mvh3c3r</dd></div>
+        <div><dt>Version</dt><dd data-t="mvh3ib1">mvh3ib1</dd></div>
         <div><dt>Navigateur</dt><dd id="rf-f-browser">…</dd></div>
         <div><dt>Heure actuelle</dt><dd id="rf-f-time">…</dd></div>
         <div><dt>Dimensions</dt><dd id="rf-f-dim">…</dd></div>

diff --git a/projet-studio.html b/projet-studio.html
@@ -8,9 +8,9 @@
 <meta name="theme-color" content="#05080d">
 <link rel="icon" href="favicon.svg" type="image/svg+xml">
 <link rel="stylesheet" href="cursor.css?v=5">
-<link rel="stylesheet" href="refonte/rf.css?v=mvh3c3rb">
+<link rel="stylesheet" href="refonte/rf.css?v=mvh3ib1x">
 <script type="importmap">{"imports":{"three":"./vendor/three.module.min.js"}}</script>
-<script type="module" src="refonte/post.js?v=mvh3c3rb"></script>
+<script type="module" src="refonte/post.js?v=mvh3ib1x"></script>
 </head>
 <body class="rf-post-page rf-post--bp">
 <nav class="rf-bnav" aria-label="Navigation">
@@ -46,7 +46,7 @@
     <div class="rf-foot-card">
       <p class="rf-fh">Métadonnées</p>
       <dl class="rf-fgrid">
-        <div><dt>Version</dt><dd data-t="mvh3c3r">mvh3c3r</dd></div>
+        <div><dt>Version</dt><dd data-t="mvh3ib1">mvh3ib1</dd></div>
         <div><dt>Navigateur</dt><dd id="rf-f-browser">…</dd></div>
         <div><dt>Heure actuelle</dt><dd id="rf-f-time">…</dd></div>
         <div><dt>Dimensions</dt><dd id="rf-f-dim">…</dd></div>

diff --git a/projet-suivi.html b/projet-suivi.html
@@ -8,9 +8,9 @@
 <meta name="theme-color" content="#05080d">
 <link rel="icon" href="favicon.svg" type="image/svg+xml">
 <link rel="stylesheet" href="cursor.css?v=5">
-<link rel="stylesheet" href="refonte/rf.css?v=mvh3c3rb">
+<link rel="stylesheet" href="refonte/rf.css?v=mvh3ib1x">
 <script type="importmap">{"imports":{"three":"./vendor/three.module.min.js"}}</script>
-<script type="module" src="refonte/post.js?v=mvh3c3rb"></script>
+<script type="module" src="refonte/post.js?v=mvh3ib1x"></script>
 </head>
 <body class="rf-post-page rf-post--bp">
 <nav class="rf-bnav" aria-label="Navigation">
@@ -46,7 +46,7 @@
     <div class="rf-foot-card">
       <p class="rf-fh">Métadonnées</p>
       <dl class="rf-fgrid">
-        <div><dt>Version</dt><dd data-t="mvh3c3r">mvh3c3r</dd></div>
+        <div><dt>Version</dt><dd data-t="mvh3ib1">mvh3ib1</dd></div>
         <div><dt>Navigateur</dt><dd id="rf-f-browser">…</dd></div>
         <div><dt>Heure actuelle</dt><dd id="rf-f-time">…</dd></div>
         <div><dt>Dimensions</dt><dd id="rf-f-dim">…</dd></div>
